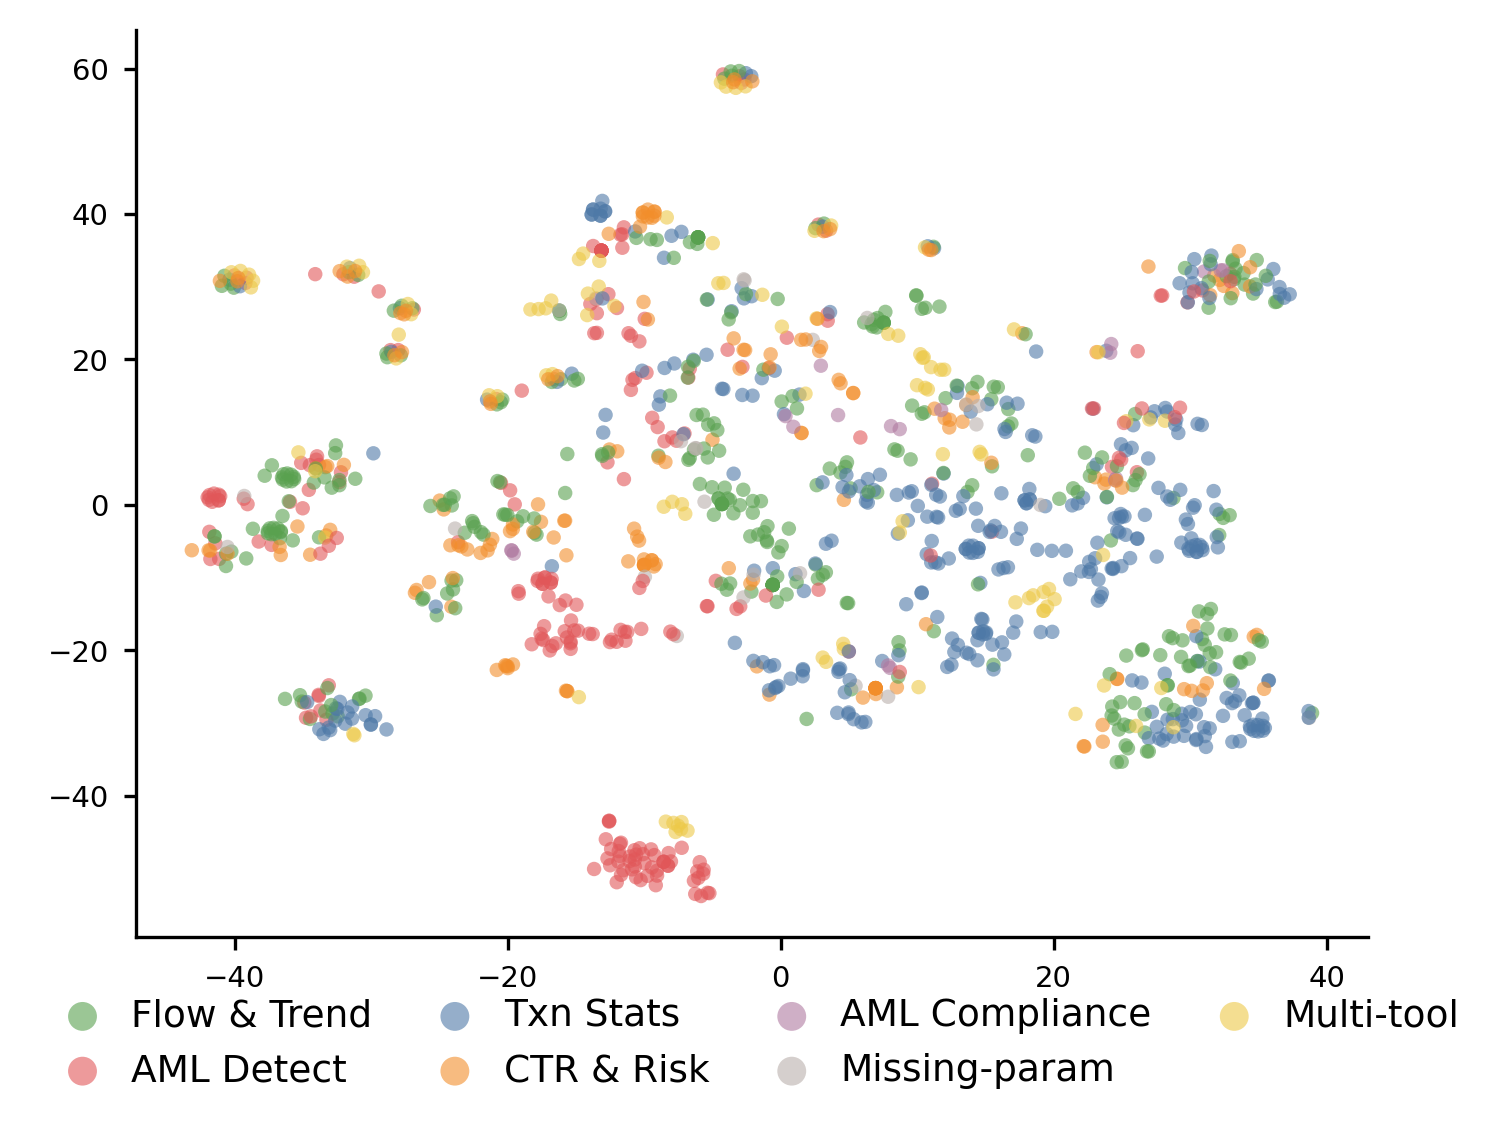
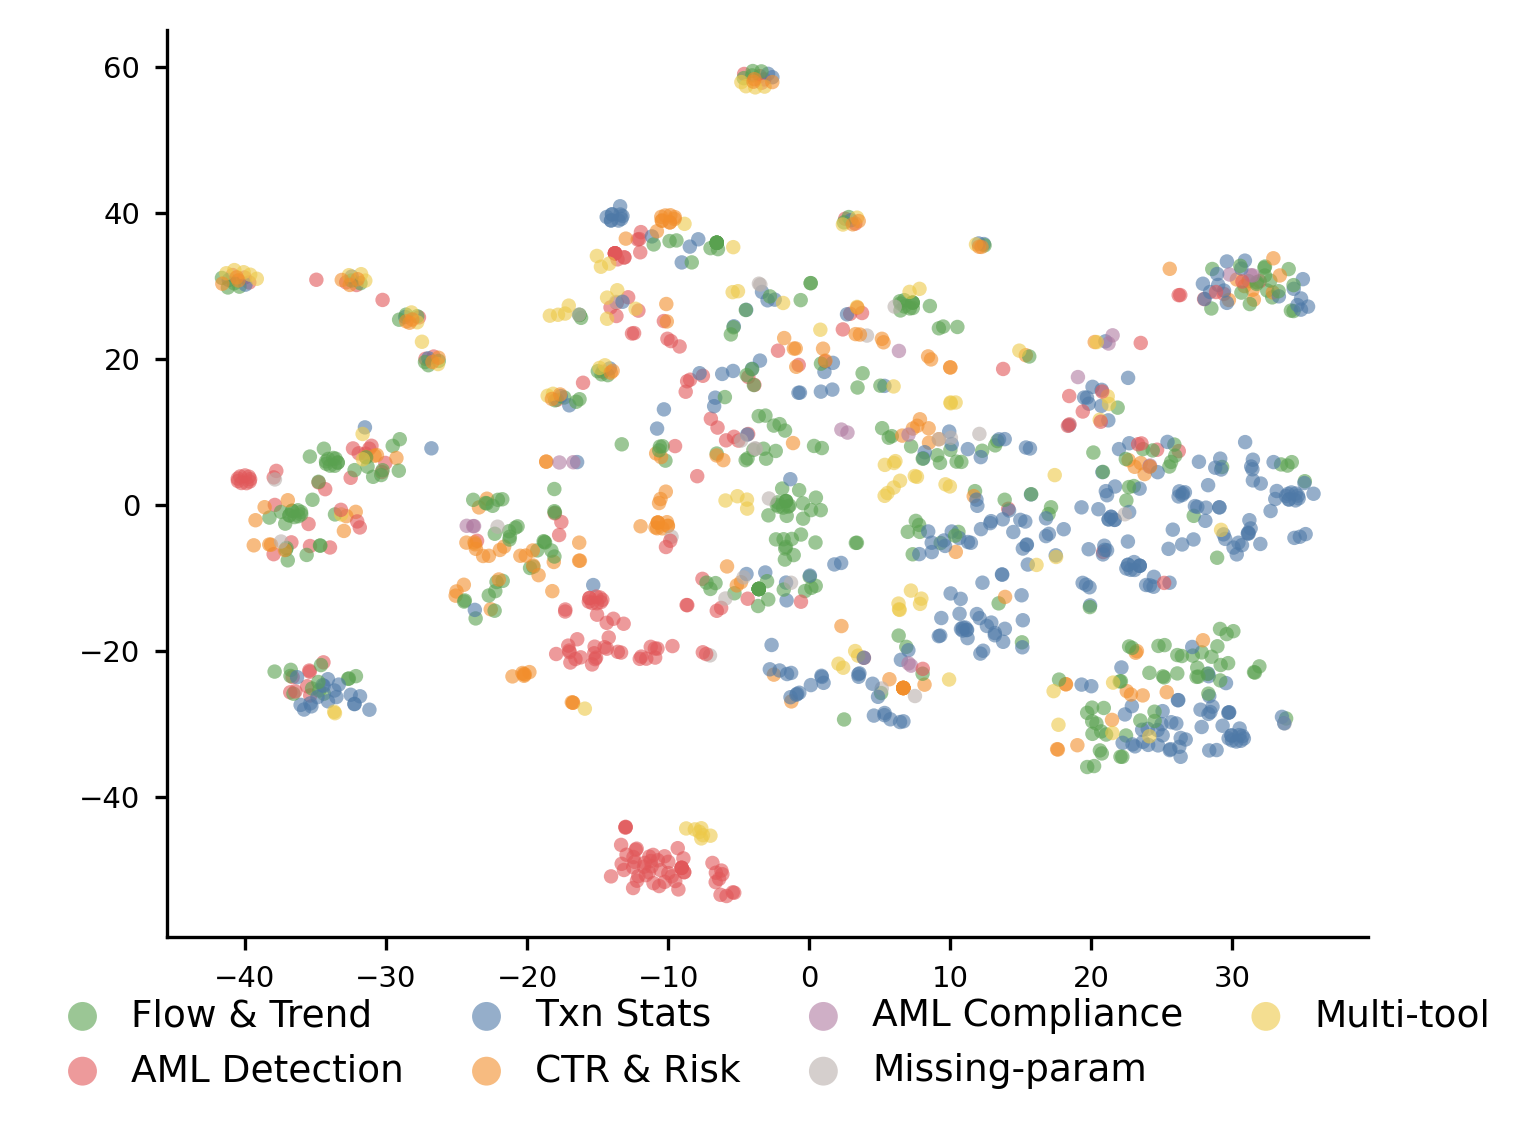
figs: unify subdomain label 'AML Detect' -> 'AML Detection'; generate_str -> AML Compliance
- radar / RQ5 grouped bar / tsne legend now read 'AML Detection' (matches
  Table II + body), consistent with already-full 'AML Compliance'
- move generate_str to Compliance group in all subdomain maps (inert: no
  single-turn cases, 0 numeric change; verified finance_specialization.json
  byte-identical after regen)

diff --git a/_experiments/scripts/generate_new_figures.py b/_experiments/scripts/generate_new_figures.py
@@ -535,9 +535,9 @@ def fig_tsne_semantic():
         "get_statistics": "Txn Stats", "query_transactions": "Txn Stats",
         "get_account_profile": "Txn Stats", "compare_periods": "Txn Stats",
         "get_fraud_type_summary": "Txn Stats", "get_institution_report": "Txn Stats",
-        "analyze_network": "AML Detect", "detect_aml_patterns": "AML Detect",
-        "rank_risky_transactions": "AML Detect", "predict_fraud": "AML Detect",
-        "generate_str": "AML Detect",
+        "analyze_network": "AML Detection", "detect_aml_patterns": "AML Detection",
+        "rank_risky_transactions": "AML Detection", "predict_fraud": "AML Detection",
+        "generate_str": "AML Compliance",
         "detect_ctr_candidates": "CTR & Risk", "score_account_risk": "CTR & Risk",
         "detect_monitoring_alerts": "CTR & Risk",
         "detect_dormant_reactivation": "Flow & Trend", "detect_smurfing_network": "Flow & Trend",
@@ -548,7 +548,7 @@ def fig_tsne_semantic():
         "multi_tool": "Multi-tool", "missing_parameters": "Missing-param",
     }
     subdomain_colors = {
-        "Txn Stats": "#4E79A7", "AML Detect": "#E15759", "CTR & Risk": "#F28E2B",
+        "Txn Stats": "#4E79A7", "AML Detection": "#E15759", "CTR & Risk": "#F28E2B",
         "Flow & Trend": "#59A14F", "AML Compliance": "#B07AA1",
         "Multi-tool": "#EDC948", "Missing-param": "#BAB0AC",
     }
@@ -586,11 +586,11 @@ SUBDOMAIN_MAP = {
     "compare_periods": "Txn\nStats",
     "get_fraud_type_summary": "Txn\nStats",
     "get_institution_report": "Txn\nStats",
-    "analyze_network": "AML\nDetect",
-    "detect_aml_patterns": "AML\nDetect",
-    "rank_risky_transactions": "AML\nDetect",
-    "predict_fraud": "AML\nDetect",
-    "generate_str": "AML\nDetect",
+    "analyze_network": "AML\nDetection",
+    "detect_aml_patterns": "AML\nDetection",
+    "rank_risky_transactions": "AML\nDetection",
+    "predict_fraud": "AML\nDetection",
+    "generate_str": "AML\nCompliance",
     "detect_ctr_candidates": "CTR\n& Risk",
     "score_account_risk": "CTR\n& Risk",
     "detect_monitoring_alerts": "CTR\n& Risk",
@@ -608,7 +608,7 @@ SUBDOMAIN_MAP = {
 }
 
 SUBDOMAIN_ORDER = [
-    "Txn\nStats", "AML\nDetect",
+    "Txn\nStats", "AML\nDetection",
     "CTR\n& Risk", "Flow\n& Trend",
     "AML\nCompliance", "Multi-tool", "Missing-\nparam",
 ]

diff --git a/_experiments/scripts/generate_paper_figures.py b/_experiments/scripts/generate_paper_figures.py
@@ -522,7 +522,7 @@ def fig6_subdomain_radar(kr_data):
         "get_fraud_type_summary": "Stats & Inquiry", "get_institution_report": "Stats & Inquiry",
         "analyze_network": "Detection & Report.", "detect_aml_patterns": "Detection & Report.",
         "rank_risky_transactions": "Detection & Report.", "predict_fraud": "Detection & Report.",
-        "generate_str": "Detection & Report.",
+        "generate_str": "AML Compliance",
         "detect_ctr_candidates": "CTR, Risk & Monitor", "score_account_risk": "CTR, Risk & Monitor",
         "detect_monitoring_alerts": "CTR, Risk & Monitor",
         "detect_dormant_reactivation": "Flow & Channel", "detect_smurfing_network": "Flow & Channel",

diff --git a/_experiments/scripts/generate_subdomain_radar.py b/_experiments/scripts/generate_subdomain_radar.py
@@ -42,7 +42,7 @@ OUT = Path(__file__).resolve().parent / "fig_subdomain_radar.png"
 SUBDOMAINS = {
     "Txn\nStats": ["get_statistics", "query_transactions", "get_account_profile",
                    "compare_periods", "get_fraud_type_summary", "get_institution_report"],
-    "AML\nDetect": ["analyze_network", "detect_aml_patterns",
+    "AML\nDetection": ["analyze_network", "detect_aml_patterns",
                     "rank_risky_transactions", "predict_fraud"],
     "CTR\n& Risk": ["detect_ctr_candidates", "score_account_risk", "detect_monitoring_alerts"],
     "Flow\n& Trend": ["detect_dormant_reactivation", "detect_smurfing_network",

diff --git a/_experiments/scripts/RQ5_subdomain_grouped_bar.py b/_experiments/scripts/RQ5_subdomain_grouped_bar.py
@@ -52,7 +52,7 @@ GROUP_COLORS = {
 # ── 서브도메인 단축명 ─────────────────────────────────────────────────────────
 SD_SHORT = {
     "Transaction Stats & Inquiry":  "Txn Stats",
-    "AML Detection & Reporting":    "AML Detect",
+    "AML Detection & Reporting":    "AML Detection",
     "CTR, Risk & Monitoring":       "CTR & Risk",
     "Flow, Trend & Channel":        "Flow & Trend",
     "AML Reference":                "AML Compliance",

diff --git a/_experiments/scripts/RQ5_finance_specialization.py b/_experiments/scripts/RQ5_finance_specialization.py
@@ -24,7 +24,7 @@ SUB_DOMAINS = {
     ],
     'AML Detection & Reporting': [
         'analyze_network', 'detect_aml_patterns', 'rank_risky_transactions',
-        'predict_fraud', 'generate_str',
+        'predict_fraud',
     ],
     'CTR, Risk & Monitoring': [
         'detect_ctr_candidates', 'score_account_risk', 'detect_monitoring_alerts',
@@ -36,6 +36,7 @@ SUB_DOMAINS = {
     ],
     'AML Reference': [
         'lookup_fiu_reference_types', 'validate_str_fields', 'get_aml_glossary',
+        'generate_str',
     ],
 }
 
